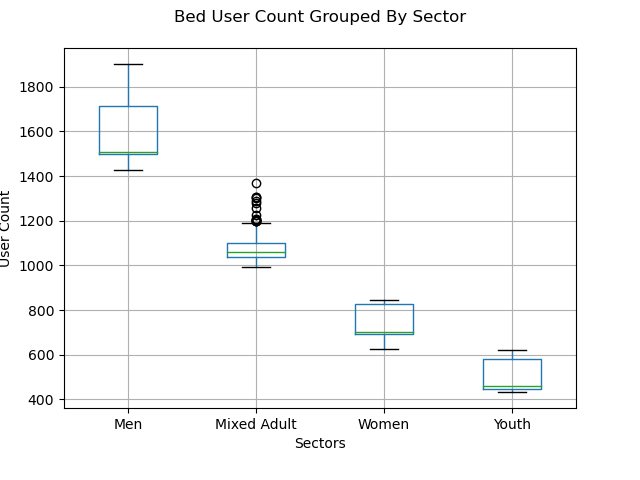
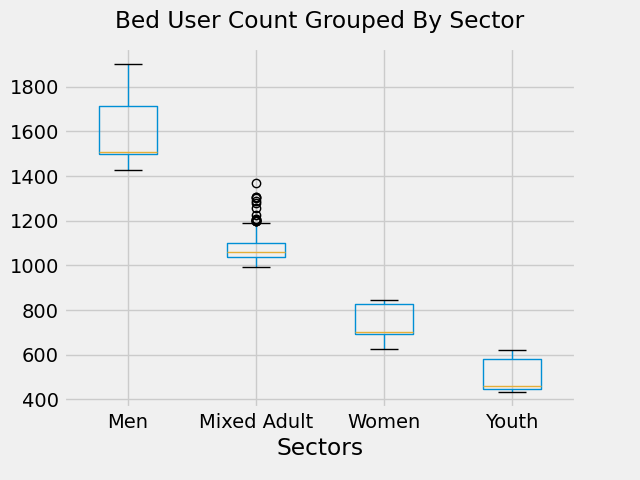
Tasks 4 to 6 - argparse and yaml config files added

diff --git a/analysis_script.py b/analysis_script.py
@@ -1,22 +1,23 @@
 '''Script for analysis and plotting of Toronto Homeless Shelter Usage Data
 Submitted by Ramin Vali as part of Homework1 for Building Software Module
-of th DSI course'''
+of the DSI course'''
+
+'''Variables chose: group by (commandline), link to the dataset (user level), plot_style (job level)'''
 
 import pandas as pd
 import matplotlib.pylab as plt
 import matplotlib.ticker as tick
 
-def load_data():
+import argparse
+import yaml
+
+## Loading ##
+def load_data(config):
     '''The link to the dataset is one of the varibales we can put into user config'''
-    # df = pd.read_csv(
-    #                 "https://ckan0.cf.opendata.inter.prod-toronto.ca/dataset"\
-    #                  "/21c83b32-d5a8-4106-a54f-010dbe49f6f2/resource/79723018-8"\
-    #                  "dc7-4cd4-8fb4-8652376ea531/download/daily-shelter-overnight-"\
-    #                  "service-occupancy-capacity-2023.csv"
-    #                  )
-    df = pd.read_csv('data.csv')
+    df = pd.read_csv(config['dataset_url'])# job config variable
     return df
 
+## Preprocessing ##
 def null_col_drop(df, pct = 0.35):
     '''Drop columns with more then 35% missing values, then drop any row with missing values'''
     drop_mask = (df.isnull().sum()/df.shape[0])<pct # making a mask for columns with a percentage missing value rate higher than 35%
@@ -25,7 +26,6 @@ def null_col_drop(df, pct = 0.35):
     df.dropna(axis=0, inplace=True)
     return df
 
-
 def preprocess(df):
     '''Change column names to lower case and drop nulls and set the datetime column'''
     df['OCCUPANCY_DATE'] = pd.to_datetime(df['OCCUPANCY_DATE']) # Get date time object
@@ -33,39 +33,44 @@ def preprocess(df):
     df = null_col_drop(df, pct = 0.35)
     return df
 
-
-def analysis_and_plot(df, group_col = 'both'):
+## Analysis ##
+def analysis_and_plot(df, config):
     '''Perform analysis based on the column to groupby and call the appropriate plotting functions'''
 
-    if group_col == 'occupancy_date':
+    if config['group_col'] == 'occupancy_date': # group_col is a commandline variable here, 3 choices
         grouped = (df.groupby('occupancy_date')
                    .agg(total_capacity = ('capacity_actual_bed', 'sum'),
                     sum_occu_beds = ('occupied_beds', 'sum'),
                     sum_unoccu_beds = ('unoccupied_beds', 'sum')))
-        utilisation_plot(grouped)
+        utilisation_plot(grouped, config)
     
-    elif group_col == 'sector':
+    elif config['group_col'] == 'sector':
         grouped = df.groupby(['sector'])['occupied_beds'].sum()/365
-        bar_plot(grouped)
+        bar_plot(grouped,config)
 
-    else:
+    elif config['group_col'] == 'both':
         grouped = df.groupby(['occupancy_date','sector'])\
                                      ['service_user_count'].sum().reset_index()
-        sector_utility_plot(grouped)
+        sector_utility_plot(grouped,config)
         sector_boxplot(grouped)
+    else:
+        print('INVALID CHOICE!') 
 
-def bar_plot(data):
+## Plotting ##
+
+def bar_plot(data, config):
     '''Bar plot for sector grouped data'''
     fig, ax = plt.subplots()
-    ax.barh(data.index, data, height=.3, color='g') # possible variable to change
+    ax.barh(data.index, data, height=.3, color=config['plot_color']) # job configuration variable
     ax.set_title('Mean Occupied Beds Per Sector')
     ax.xaxis.set_major_formatter(tick.StrMethodFormatter('{x:,.0f}'))
     ax.set_xlabel('Yearly Occupied Beds')
     plt.savefig('Mean_Occupied_Beds_Per_Sector.png')
 
-def utilisation_plot(data):
+def utilisation_plot(data, config):
     '''Utilisation plot for grouping by occupancy date only'''
     fig, ax = plt.subplots()
+    plt.style.use(config['plot_style']) # user_configuration variable
     ax.plot(data.index, data.total_capacity, label = 'Total Capacity')
     ax.plot(data.index, data.sum_occu_beds, label = 'Occupied Beds')
     ax.plot(data.index, data.sum_unoccu_beds, label = 'Unoccupied Beds')
@@ -76,9 +81,10 @@ def utilisation_plot(data):
     ax.grid(alpha=0.3)
     plt.savefig('Shelter_Bed_Capacity_Utilisation_2023')
 
-def sector_utility_plot(data):
+def sector_utility_plot(data,config):
     '''Sector utility plot used when both sector and occupancy date are passed'''
     fig, ax = plt.subplots(figsize = (8,5))
+    plt.style.use(config['plot_style'])# user_configuration variable
     for key, segment in data.groupby('sector'):
         segment.plot(x='occupancy_date', y='service_user_count', ax=ax, label=key)
     ax.set_title('Shelter Bed Usage per Sector per Day')
@@ -99,12 +105,35 @@ def sector_boxplot(data):
     boxplot.iloc[0].set_ylabel('User Count')
     plt.savefig('Bed_User_Count_Grouped_By_Sector')
 
-def main():
-    df = load_data()
+def main(config):
+    df = load_data(config)
     prepped_df = preprocess(df) 
-    analysis_and_plot (prepped_df)
+    analysis_and_plot (prepped_df,config)
 
-
+# running as script
 if __name__ == '__main__':
-    main()
+    parser = argparse.ArgumentParser(description='Shelter Dataset Analysis Script')
+    parser.add_argument('user_config',
+                        type=str,
+                        help='Path to the user configuration file')
+    parser.add_argument('job_config',
+                        type=str, 
+                        help='Path to the job configuration file')
+    parser.add_argument('group_col', 
+                        help = 'Group by occupancy_date, sector or both',
+                        choices=['occupancy_date', 'sector','both'])
+    args = parser.parse_args()
+
+
+    config_paths = []
+    config_paths.extend([args.user_config, args.job_config])
+    config = {}
+    for path in config_paths:
+        with open(path, 'r') as f:
+            this_config = yaml.safe_load(f)
+            config.update(this_config)
+
+    config.update({'group_col':args.group_col})
+    print(config)
+    main(config)
 
